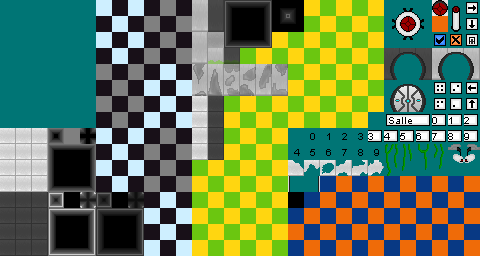
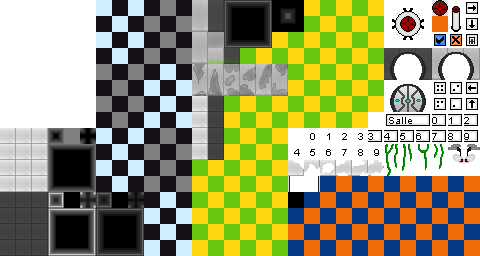
display ceil elements above entities

Changed region(s): [[0.5938, 0.0, 1.0, 0.75], [0.0, 0.0, 0.2188, 0.5]]

diff --git a/Map.cpp b/Map.cpp
@@ -30,7 +30,7 @@ Map::~Map()
 {
 }
 
-void Map::draw(sf::RenderWindow* window)
+void Map::drawFloor(sf::RenderWindow* window)
 {
     window->draw(tilemap);
 
@@ -39,6 +39,11 @@ void Map::draw(sf::RenderWindow* window)
         if (anim >= 4) { anim = 0; }
         clock.restart();
     }
+}
+
+void Map::drawCeil(sf::RenderWindow* window)
+{
+    window->draw(tilemap_ceil);
 }
 
 void Map::create()
@@ -64,7 +69,7 @@ void Map::create()
     tiles[11][11].setVal(70);
     tiles[12][11].setVal(70);
 
-    autotile(); ///SET AUTOTILESGame::getMPlayer()->getXbase() - Settings::getInstance()->W()/2;
+    autotile(tiles); ///SET AUTOTILESGame::getMPlayer()->getXbase() - Settings::getInstance()->W()/2;
     tilemap.prepare(Settings::getInstance()->getPath()+"data/graphics/tiles/Basis.png", tiles, w, h);
 }
 
@@ -89,9 +94,17 @@ void Map::loadTileRules()
         {
             for (int j=0 ; j<h ; j++)
             {
-                if (spe[tiles[i][j].getVal()] == 1) {
+                int t = tiles[i][j].getVal();
+                if (spe[t] == 1) {
                     tiles[i][j].setSolid(true);
-                    tiles[i][j].setVal(0);
+                }
+                else if (spe[t] == 2 && t % TILESET_WIDTH <= 12 && (t % TILESET_WIDTH) / 3 == 1 && (t / TILESET_WIDTH) / 4 == 2) { // star tile + autotile
+                    if (!(j > 0 && tiles[i][j-1].getVal() != t)) {
+                        tiles[i][j].setSolid(true);
+                    }
+                }
+                if (spe[t] == 2) {
+                    tiles_ceil[i][j].setVal(t);
                 }
             }
         }
@@ -110,8 +123,10 @@ void Map::loadMap(int i)
     fichier.read((char*)&w,sizeof(int));
     fichier.read((char*)&h,sizeof(int));
     tiles.resize(w);
+    tiles_ceil.resize(w);
     for (int i = 0 ; i < w ; i++) {
         tiles[i].resize(h);
+        tiles_ceil[i].resize(h);
     }
 
     for (int i=0 ; i<w ; i++)
@@ -123,12 +138,18 @@ void Map::loadMap(int i)
             tiles[i][j].setMap(this);
             tiles[i][j].setPos(i,j);
             tiles[i][j].setVal(val);
+
+            tiles_ceil[i][j].setMap(this);
+            tiles_ceil[i][j].setPos(i,j);
+            tiles_ceil[i][j].setVal(VIDE);
         }
     }
     fichier.close();
-    autotile(); ///SET AUTOTILESGame::getMPlayer()->getXbase() - Settings::getInstance()->W()/2;
-    tilemap.prepare(Settings::getInstance()->getPath()+"data/graphics/tiles/chipset.png", tiles, w, h);
     loadTileRules();
+    autotile(tiles); ///SET AUTOTILESGame::getMPlayer()->getXbase() - Settings::getInstance()->W()/2;
+    autotile(tiles_ceil);
+    tilemap.prepare(Settings::getInstance()->getPath()+"data/graphics/tiles/chipset.png", tiles, w, h);
+    tilemap_ceil.prepare(Settings::getInstance()->getPath()+"data/graphics/tiles/chipset.png", tiles_ceil, w, h);
 }
 
 void Map::randomMap()
@@ -152,102 +173,102 @@ void Map::randomMap()
     delete[] heightmap;
 }
 
-void Map::autotile()
+void Map::autotile(std::vector<std::vector<Tile> >& vt)
 {
     for (int i = 0 ; i < w ; i++) {
         for (int j = 0 ; j < h ; j++) {
-            int t = tiles[i][j].getVal();
+            int t = vt[i][j].getVal();
             if (t % TILESET_WIDTH <= 12 && (t % TILESET_WIDTH) / 3 == 1 && (t / TILESET_WIDTH) / 4 == 2) {
                 // opposite corners
-                if (i > 0 && j > 0 && tiles[i-1][j-1].getVal() != t && tiles[i-1][j].getVal() == t && tiles[i][j-1].getVal() == t) {
-                    tiles[i][j].setCorner(true, LU);
+                if (i > 0 && j > 0 && vt[i-1][j-1].getVal() != t && vt[i-1][j].getVal() == t && vt[i][j-1].getVal() == t) {
+                    vt[i][j].setCorner(true, LU);
                 }
-                if (i > 0 && j < h-1 && tiles[i-1][j+1].getVal() != t && tiles[i-1][j].getVal() == t && tiles[i][j+1].getVal() == t) {
-                    tiles[i][j].setCorner(true, LD);
+                if (i > 0 && j < h-1 && vt[i-1][j+1].getVal() != t && vt[i-1][j].getVal() == t && vt[i][j+1].getVal() == t) {
+                    vt[i][j].setCorner(true, LD);
                 }
-                if (i < w-1 && j > 0 && tiles[i+1][j-1].getVal() != t && tiles[i+1][j].getVal() == t && tiles[i][j-1].getVal() == t) {
-                    tiles[i][j].setCorner(true, RU);
+                if (i < w-1 && j > 0 && vt[i+1][j-1].getVal() != t && vt[i+1][j].getVal() == t && vt[i][j-1].getVal() == t) {
+                    vt[i][j].setCorner(true, RU);
                 }
-                if (i < w-1 && j < h-1 && tiles[i+1][j+1].getVal() != t && tiles[i+1][j].getVal() == t && tiles[i][j+1].getVal() == t) {
-                    tiles[i][j].setCorner(true, RD);
+                if (i < w-1 && j < h-1 && vt[i+1][j+1].getVal() != t && vt[i+1][j].getVal() == t && vt[i][j+1].getVal() == t) {
+                    vt[i][j].setCorner(true, RD);
                 }
 
                 // other tile rules
-                if (i > 0 && j > 0 && i < w - 1 && tiles[i-1][j].getVal() != t && tiles[i][j-1].getVal() != t && tiles[i+1][j].getVal() != t) {
+                if (i > 0 && j > 0 && i < w - 1 && vt[i-1][j].getVal() != t && vt[i][j-1].getVal() != t && vt[i+1][j].getVal() != t) {
                     //  _
                     // | |
-                    tiles[i][j].setTex(t - 1 * TILESET_WIDTH - 1);
-                    tiles[i][j].setHalfTex(t - 1 * TILESET_WIDTH + 1);
-                    tiles[i][j].setHalfHorizontal(true);
+                    vt[i][j].setTex(t - 1 * TILESET_WIDTH - 1);
+                    vt[i][j].setHalfTex(t - 1 * TILESET_WIDTH + 1);
+                    vt[i][j].setHalfHorizontal(true);
                 }
-                else if (i > 0 && j > 0 && j < h - 1 && tiles[i-1][j].getVal() != t && tiles[i][j-1].getVal() != t && tiles[i][j+1].getVal() != t) {
+                else if (i > 0 && j > 0 && j < h - 1 && vt[i-1][j].getVal() != t && vt[i][j-1].getVal() != t && vt[i][j+1].getVal() != t) {
                     //  _
                     // |_
-                    tiles[i][j].setTex(t - 1 * TILESET_WIDTH - 1);
-                    tiles[i][j].setHalfTex(t + 1 * TILESET_WIDTH - 1);
-                    tiles[i][j].setHalfHorizontal(false);
+                    vt[i][j].setTex(t - 1 * TILESET_WIDTH - 1);
+                    vt[i][j].setHalfTex(t + 1 * TILESET_WIDTH - 1);
+                    vt[i][j].setHalfHorizontal(false);
                 }
-                else if (i > 0 && j < h-1 && i < w - 1 && tiles[i-1][j].getVal() != t && tiles[i][j+1].getVal() != t && tiles[i+1][j].getVal() != t) {
+                else if (i > 0 && j < h-1 && i < w - 1 && vt[i-1][j].getVal() != t && vt[i][j+1].getVal() != t && vt[i+1][j].getVal() != t) {
                     // |_|
-                    tiles[i][j].setTex(t + 1 * TILESET_WIDTH - 1);
-                    tiles[i][j].setHalfTex(t + 1 * TILESET_WIDTH + 1);
-                    tiles[i][j].setHalfHorizontal(true);
+                    vt[i][j].setTex(t + 1 * TILESET_WIDTH - 1);
+                    vt[i][j].setHalfTex(t + 1 * TILESET_WIDTH + 1);
+                    vt[i][j].setHalfHorizontal(true);
                 }
-                else if (i < w-1 && j > 0 && j < h - 1 && tiles[i+1][j].getVal() != t && tiles[i][j-1].getVal() != t && tiles[i][j+1].getVal() != t) {
+                else if (i < w-1 && j > 0 && j < h - 1 && vt[i+1][j].getVal() != t && vt[i][j-1].getVal() != t && vt[i][j+1].getVal() != t) {
                     // _
                     // _|
-                    tiles[i][j].setTex(t - 1 * TILESET_WIDTH + 1);
-                    tiles[i][j].setHalfTex(t + 1 * TILESET_WIDTH + 1);
-                    tiles[i][j].setHalfHorizontal(false);
+                    vt[i][j].setTex(t - 1 * TILESET_WIDTH + 1);
+                    vt[i][j].setHalfTex(t + 1 * TILESET_WIDTH + 1);
+                    vt[i][j].setHalfHorizontal(false);
                 }
-                else if (i > 0 && j > 0 && tiles[i-1][j].getVal() != t && tiles[i][j-1].getVal() != t) {
+                else if (i > 0 && j > 0 && vt[i-1][j].getVal() != t && vt[i][j-1].getVal() != t) {
                     //  _
                     // |
-                    tiles[i][j].setTex(t - 1 * TILESET_WIDTH - 1);
+                    vt[i][j].setTex(t - 1 * TILESET_WIDTH - 1);
                 }
-                else if (i < w - 1 && j > 0 && tiles[i+1][j].getVal() != t && tiles[i][j-1].getVal() != t) {
+                else if (i < w - 1 && j > 0 && vt[i+1][j].getVal() != t && vt[i][j-1].getVal() != t) {
                     //  _
                     //   |
-                    tiles[i][j].setTex(t - 1 * TILESET_WIDTH + 1);
+                    vt[i][j].setTex(t - 1 * TILESET_WIDTH + 1);
                 }
-                else if (i < w - 1 && j < h -1 && tiles[i+1][j].getVal() != t && tiles[i][j+1].getVal() != t) {
+                else if (i < w - 1 && j < h -1 && vt[i+1][j].getVal() != t && vt[i][j+1].getVal() != t) {
                     // _|
-                    tiles[i][j].setTex(t + 1 * TILESET_WIDTH + 1);
+                    vt[i][j].setTex(t + 1 * TILESET_WIDTH + 1);
                 }
-                else if (i > 0 && j < h -1 && tiles[i-1][j].getVal() != t && tiles[i][j+1].getVal() != t) {
+                else if (i > 0 && j < h -1 && vt[i-1][j].getVal() != t && vt[i][j+1].getVal() != t) {
                     // |_
-                    tiles[i][j].setTex(t + 1 * TILESET_WIDTH - 1);
+                    vt[i][j].setTex(t + 1 * TILESET_WIDTH - 1);
                 }
-                else if (j > 0 && j < h - 1 && tiles[i][j-1].getVal() != t && tiles[i][j+1].getVal() != t) {
+                else if (j > 0 && j < h - 1 && vt[i][j-1].getVal() != t && vt[i][j+1].getVal() != t) {
                     //  _
                     //  _
-                    tiles[i][j].setTex(t - 1 * TILESET_WIDTH);
-                    tiles[i][j].setHalfTex(t + 1 * TILESET_WIDTH);
-                    tiles[i][j].setHalfHorizontal(false);
+                    vt[i][j].setTex(t - 1 * TILESET_WIDTH);
+                    vt[i][j].setHalfTex(t + 1 * TILESET_WIDTH);
+                    vt[i][j].setHalfHorizontal(false);
                 }
-                else if (i > 0 && i < w - 1 && tiles[i-1][j].getVal() != t && tiles[i+1][j].getVal() != t) {
+                else if (i > 0 && i < w - 1 && vt[i-1][j].getVal() != t && vt[i+1][j].getVal() != t) {
                     // | |
-                    tiles[i][j].setTex(t - 1);
-                    tiles[i][j].setHalfTex(t + 1);
-                    tiles[i][j].setHalfHorizontal(true);
+                    vt[i][j].setTex(t - 1);
+                    vt[i][j].setHalfTex(t + 1);
+                    vt[i][j].setHalfHorizontal(true);
                 }
-                else if (j > 0 && tiles[i][j-1].getVal() != t) {
+                else if (j > 0 && vt[i][j-1].getVal() != t) {
                     //  _
                     //
-                    tiles[i][j].setTex(t - 1 * TILESET_WIDTH);
+                    vt[i][j].setTex(t - 1 * TILESET_WIDTH);
                 }
-                else if (i > 0 && tiles[i-1][j].getVal() != t) {
+                else if (i > 0 && vt[i-1][j].getVal() != t) {
                     // |
-                    tiles[i][j].setTex(t - 1);
+                    vt[i][j].setTex(t - 1);
                 }
-                else if (i < w-1 && tiles[i+1][j].getVal() != t) {
+                else if (i < w-1 && vt[i+1][j].getVal() != t) {
                     //   |
-                    tiles[i][j].setTex(t + 1);
+                    vt[i][j].setTex(t + 1);
                 }
-                else if (j < h-1 && tiles[i][j+1].getVal() != t) {
+                else if (j < h-1 && vt[i][j+1].getVal() != t) {
                     //
                     //  _
-                    tiles[i][j].setTex(t + 1 * TILESET_WIDTH);
+                    vt[i][j].setTex(t + 1 * TILESET_WIDTH);
                 }
             }
         }
@@ -259,6 +280,9 @@ int Map::getAnim() const
 
 Tile Map::getTile(int i, int j) const
     { return tiles[i][j]; }
+
+Tile Map::getTileCeil(int i, int j) const
+    { return tiles_ceil[i][j]; }
 
 int Map::getW() const
     { return w; }

diff --git a/Map.h b/Map.h
@@ -23,22 +23,26 @@ class Map
         Map();
         ~Map();
 
-        void draw(sf::RenderWindow* window);
+        void drawFloor(sf::RenderWindow* window);
+        void drawCeil(sf::RenderWindow* window);
         void create();
         void loadMap(int i);
         int getAnim() const;
         Tile getTile(int i, int j) const;
+        Tile getTileCeil(int i, int j) const;
         int getW() const;
         int getH() const;
     private:
-        void autotile();
+        void autotile(std::vector<std::vector<Tile> >& vt);
         void randomMap();
         void loadTileRules();
 
         int w;
         int h;
         std::vector<std::vector<Tile> > tiles;
+        std::vector<std::vector<Tile> > tiles_ceil;
         TileMap tilemap;
+        TileMap tilemap_ceil;
         sf::Clock clock;
         int anim;
 };

diff --git a/GameScene.cpp b/GameScene.cpp
@@ -23,9 +23,11 @@ void GameScene::draw()
 {
     GameCore* gameCore = GameCore::getInstance();
 
-    gameCore->getMap()->draw(window);
+    gameCore->getMap()->drawFloor(window);
 
     drawEntities();
+
+    gameCore->getMap()->drawCeil(window);
 }
 
 void GameScene::process()

diff --git a/Character.cpp b/Character.cpp
@@ -28,7 +28,7 @@ Character::Character(RenderingArray* a) : direction(1)
 
     typeanim = STILL;
     anim = 0;
-    speed = 2;
+    speed = 1;
 
     baseRect.x = 4;
     baseRect.y = 16;
